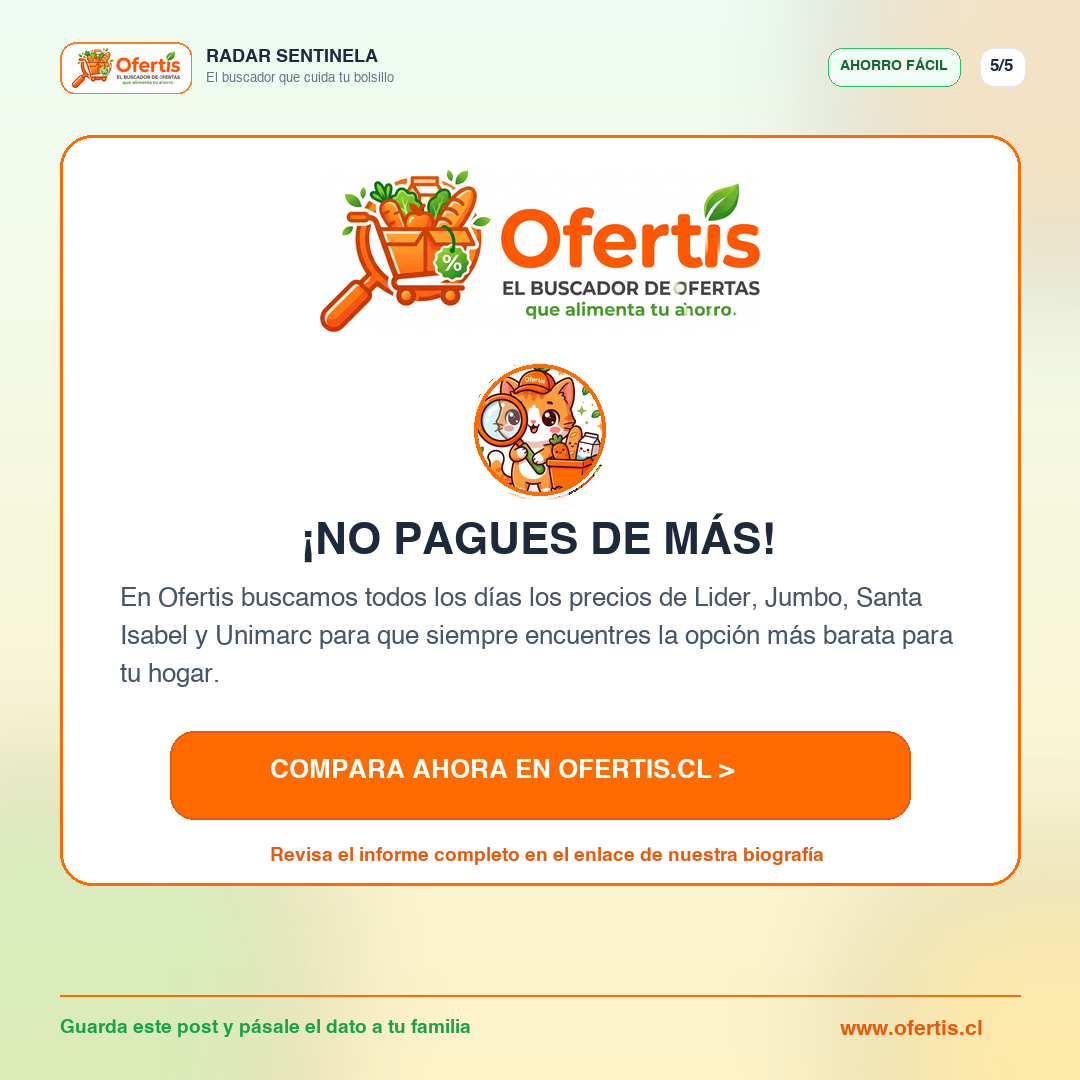
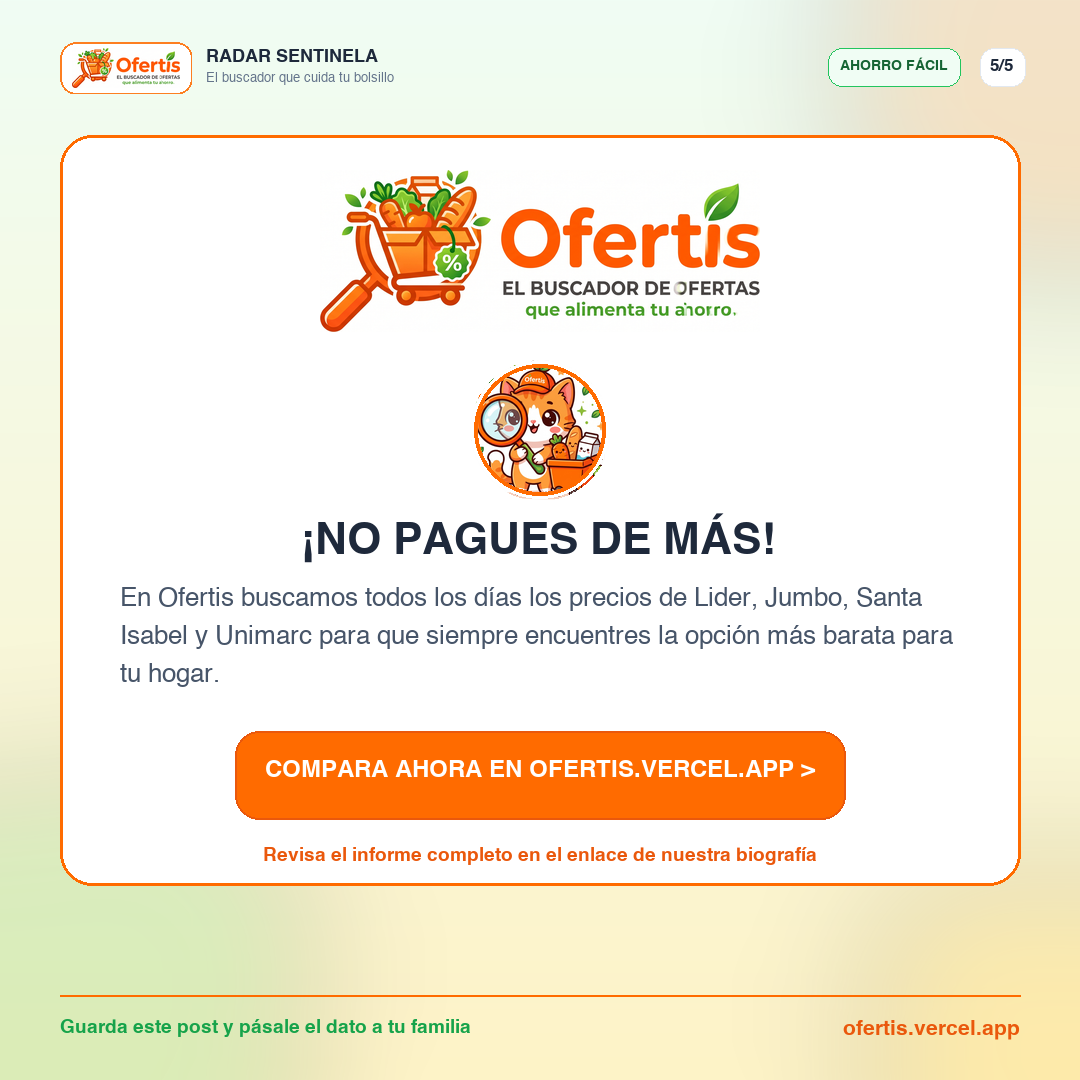
fix(social): actualizar dominio oficial a ofertis.vercel.app en carruseles y landing pages

diff --git a/frontend/src/components/AlzaPreciosBlog.tsx b/frontend/src/components/AlzaPreciosBlog.tsx
@@ -525,7 +525,7 @@ ${products || 'Canasta básica familiar'}
 ${adviceClean}
 
 🏢 Fuente monitoreada: ${art.source_name || 'ODEPA / INE'}
-🔎 ¡Anticípate y ahorra hasta un 35% comparando en www.ofertis.cl!
+🔎 ¡Anticípate y ahorra hasta un 35% comparando en ofertis.vercel.app!
 
 —
 #Ofertis #Sentinela #AlertaDePrecios #AhorroChile #InflacionChile #SupermercadosChile #PreciosBajos #CanastaBasica #LoValledor #EconomiaFamiliar #Chile`;
@@ -696,7 +696,7 @@ const downloadCanvasStory = (art: SentinelaArticle) => {
   ctx.textAlign = 'center';
   ctx.fillStyle = '#ffffff';
   ctx.font = 'bold 44px sans-serif';
-  ctx.fillText('🐾 www.ofertis.cl', 540, 1800);
+  ctx.fillText('🐾 ofertis.vercel.app', 540, 1800);
 
   ctx.fillStyle = '#9ca3af';
   ctx.font = '500 28px sans-serif';

diff --git a/sentinela/sentinela/generator/carousel_generator.py b/sentinela/sentinela/generator/carousel_generator.py
@@ -348,7 +348,10 @@ class CarouselGenerator:
             draw.text((CANVAS_WIDTH - 165, CANVAS_HEIGHT - 62), "SIGUIENTE >", font=get_system_font(18, bold=True), fill=(234, 88, 12))
         else:
             draw.text((60, CANVAS_HEIGHT - 62), "Guarda este post y pásale el dato a tu familia", font=get_system_font(19, bold=True), fill=(22, 163, 74))
-            draw.text((CANVAS_WIDTH - 240, CANVAS_HEIGHT - 62), "www.ofertis.cl", font=get_system_font(21, bold=True), fill=(234, 88, 12))
+            url_text = "ofertis.vercel.app"
+            url_bbox = draw.textbbox((0, 0), url_text, font=get_system_font(21, bold=True))
+            url_w = url_bbox[2] - url_bbox[0]
+            draw.text((CANVAS_WIDTH - 60 - url_w, CANVAS_HEIGHT - 62), url_text, font=get_system_font(21, bold=True), fill=(234, 88, 12))
 
     # -------------------------------------------------------------------------
     # SLIDE 1: PORTADA LÚDICA (¡MICHITO DETECTIVE TE AVISA!)
@@ -576,10 +579,21 @@ class CarouselGenerator:
 
         # Botón gigante naranja vibrante de Ofertis
         btn_y = dy + 32
-        self._draw_rounded_card(draw, (CANVAS_WIDTH // 2 - 370, btn_y, CANVAS_WIDTH // 2 + 370, btn_y + 88), radius=24, fill=(255, 107, 0), outline=(234, 88, 12), width=2)
-        draw.text((CANVAS_WIDTH // 2 - 270, btn_y + 26), "COMPARA AHORA EN OFERTIS.CL >", font=get_system_font(26, bold=True), fill=(255, 255, 255))
+        btn_text = "COMPARA AHORA EN OFERTIS.VERCEL.APP >"
+        btn_font = get_system_font(24, bold=True)
+        btn_bbox = draw.textbbox((0, 0), btn_text, font=btn_font)
+        btn_txt_w = btn_bbox[2] - btn_bbox[0]
+        btn_w = btn_txt_w + 60
+        btn_x1 = CANVAS_WIDTH // 2 - btn_w // 2
+        btn_x2 = CANVAS_WIDTH // 2 + btn_w // 2
+        self._draw_rounded_card(draw, (btn_x1, btn_y, btn_x2, btn_y + 88), radius=24, fill=(255, 107, 0), outline=(234, 88, 12), width=2)
+        draw.text((CANVAS_WIDTH // 2 - btn_txt_w // 2, btn_y + 27), btn_text, font=btn_font, fill=(255, 255, 255))
 
-        draw.text((CANVAS_WIDTH // 2 - 270, btn_y + 115), "Revisa el informe completo en el enlace de nuestra biografía", font=get_system_font(19, bold=True), fill=(234, 88, 12))
+        sub_text = "Revisa el informe completo en el enlace de nuestra biografía"
+        sub_font = get_system_font(19, bold=True)
+        sub_bbox = draw.textbbox((0, 0), sub_text, font=sub_font)
+        sub_w = sub_bbox[2] - sub_bbox[0]
+        draw.text((CANVAS_WIDTH // 2 - sub_w // 2, btn_y + 115), sub_text, font=sub_font, fill=(234, 88, 12))
 
         self._draw_footer(draw, is_last_slide=True, theme=theme)
         return img
@@ -602,7 +616,7 @@ class CarouselGenerator:
         dir_emoji = "🚨" if direction == "ALZA" else "🎉" if direction == "BAJA" else "💡"
         dir_label = "¡AVISO PARA TU BOLSILLO!" if direction == "ALZA" else "¡BUENA NOTICIA: OPORTUNIDAD DE AHORRO!" if direction == "BAJA" else "¡DATO CLAVE DE COMPRA!"
 
-        landing_url = f"https://ofertis.cl/?tab=alza-precios&article={art_id}"
+        landing_url = f"https://ofertis.vercel.app/?tab=alza-precios&article={art_id}"
 
         caption = f"""{dir_emoji} {dir_label} 🇨🇱
 
@@ -667,7 +681,7 @@ class CarouselGenerator:
             "slides_count": len(generated_slides),
             "slide_filenames": [os.path.basename(p) for p in generated_slides],
             "caption": caption_text,
-            "landing_url": f"https://ofertis.cl/?tab=alza-precios&article={article_id}"
+            "landing_url": f"https://ofertis.vercel.app/?tab=alza-precios&article={article_id}"
         }
         manifest_path = os.path.join(article_dir, "manifest.json")
         with open(manifest_path, "w", encoding="utf-8") as f:

diff --git a/backend/mine_wholesale_radar.py b/backend/mine_wholesale_radar.py
@@ -202,7 +202,7 @@ async def ingest_items(session, store_id_map: Dict[str, int]):
             deal_label = "🏷 Ahorro Moderado (5% a 15%)"
 
         image_url = itm.get("image_url") or CATEGORY_FALLBACK_IMAGES.get(category, CATEGORY_FALLBACK_IMAGES["despensa"])
-        purchase_url = itm.get("purchase_url") or "https://ofertis.cl"
+        purchase_url = itm.get("purchase_url") or "https://ofertis.vercel.app"
         advice = itm.get("advice") or itm.get("recommendation_note") or "Oportunidad de ahorro comprobada en canal alternativo."
         is_wholesale = bool(itm.get("is_wholesale", False))
 

diff --git a/scripts/mine_wholesale_radar.py b/scripts/mine_wholesale_radar.py
@@ -202,7 +202,7 @@ async def ingest_items(session, store_id_map: Dict[str, int]):
             deal_label = "🏷 Ahorro Moderado (5% a 15%)"
 
         image_url = itm.get("image_url") or CATEGORY_FALLBACK_IMAGES.get(category, CATEGORY_FALLBACK_IMAGES["despensa"])
-        purchase_url = itm.get("purchase_url") or "https://ofertis.cl"
+        purchase_url = itm.get("purchase_url") or "https://ofertis.vercel.app"
         advice = itm.get("advice") or itm.get("recommendation_note") or "Oportunidad de ahorro comprobada en canal alternativo."
         is_wholesale = bool(itm.get("is_wholesale", False))
 
